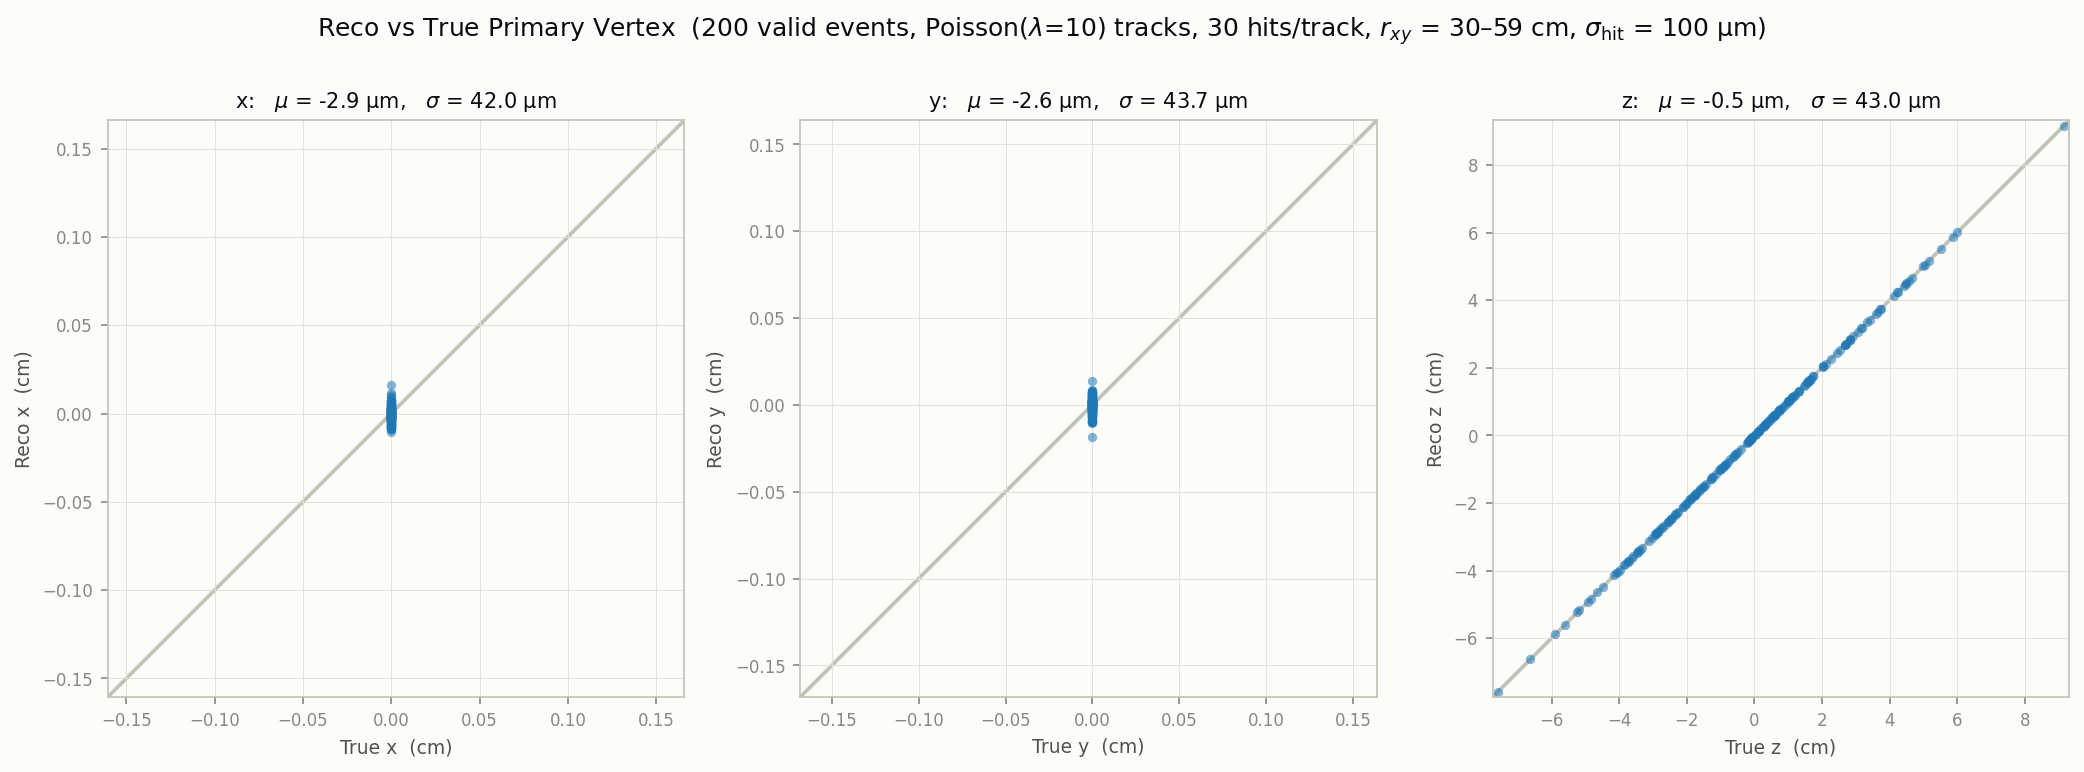
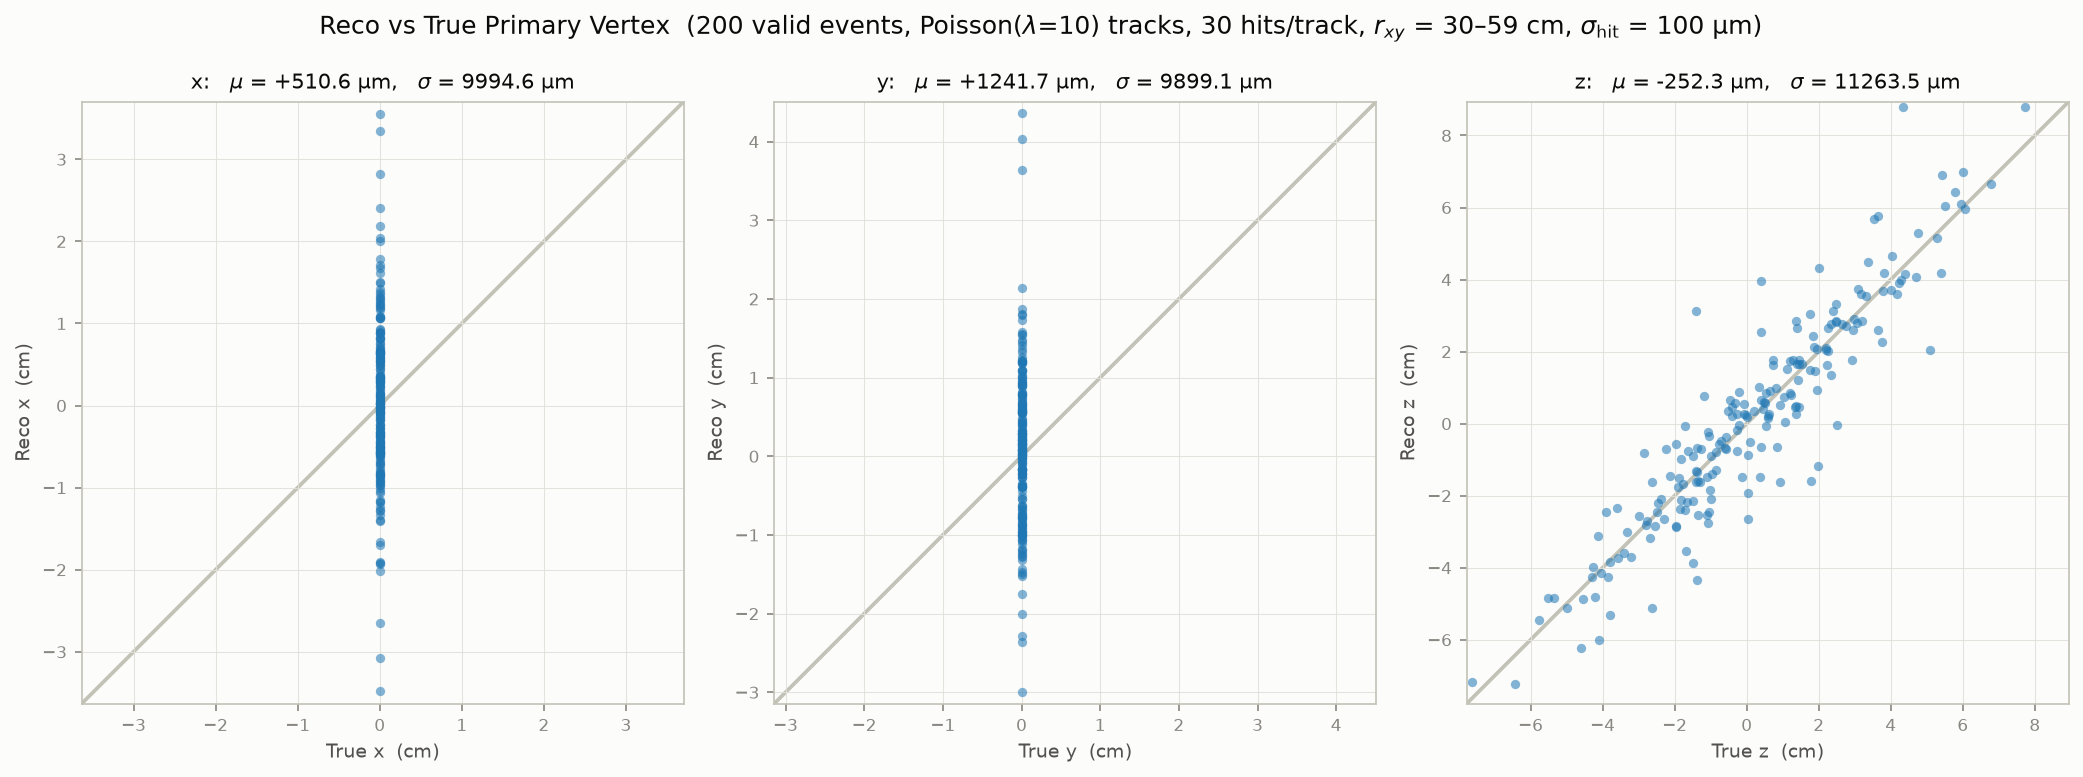
Adding helix fit logic, helix fit can now be used

diff --git a/train/downstream/vertex_head.py b/train/downstream/vertex_head.py
@@ -64,6 +64,7 @@ it as a first version, not a substitute for that helical refinement.
 import torch
 import torch.nn as nn
 
+SCALING_FACTOR = 100.0  # placeholder for dataset.py's data_scaler, which is not yet implemented
 
 def track_flight_direction(track_reg_result, epsilon=1e-8):
     """
@@ -201,8 +202,7 @@ def fit_vertex_by_closest_approach(
 def fit_vertex_by_helix_closest_approach(
     fitpars,
     track_weight,
-    n_iterations=5,
-    convergence_tol=1e-4,
+    n_iterations=100,
     is_cosmics=False,
     seed_vertex=None,
     **linear_fit_kwargs,
@@ -234,9 +234,6 @@ def fit_vertex_by_helix_closest_approach(
         track_weight: (n_events, n_tracks) -- same meaning as in
             fit_vertex_by_closest_approach
         n_iterations: max outer iterations
-        convergence_tol: stop early once every event's vertex moves less
-            than this between iterations (events with an invalid fit are
-            excluded from this check, not left stalling the loop)
         is_cosmics: passed through to get_helix_tangent, see helix_transport.py
         seed_vertex: (n_events, 3) starting point for iteration 0. Defaults
             to the origin. Seeding from fit_vertex_by_closest_approach's own
@@ -287,7 +284,7 @@ def fit_vertex_by_helix_closest_approach(
         # remainder of a batched (vectorized-over-events) iteration.
         PV = torch.where(fit_is_valid.unsqueeze(-1), new_PV, PV)
 
-        still_moving = still_moving & fit_is_valid & (step > convergence_tol)
+        still_moving = still_moving & fit_is_valid & (step > 1e-4)
         if not still_moving.any():
             break
         
@@ -325,7 +322,7 @@ def _wrap_to_pi(angle):
     return torch.atan2(torch.sin(angle), torch.cos(angle))
 
 
-def get_helix_tangent(fitpars, point, is_cosmics=False, d_angle=0.005, epsilon=1e-8):
+def get_helix_tangent(fitpars, point, is_cosmics=False, d_angle=0.005):
     """
     Vectorized port of TrackFitUtils::get_helix_tangent.
 
@@ -356,7 +353,7 @@ def get_helix_tangent(fitpars, point, is_cosmics=False, d_angle=0.005, epsilon=1
 
     point_xy = point[..., 0:2]
 
-    pca_circle = get_circle_point_pca(radius, x0, y0, point_xy, epsilon=epsilon)  # (..., 2)
+    pca_circle = get_circle_point_pca(radius, x0, y0, point_xy)  # (..., 2)
 
     pca_circle_radius = pca_circle.norm(dim=-1)
     if is_cosmics:
@@ -380,7 +377,7 @@ def get_helix_tangent(fitpars, point, is_cosmics=False, d_angle=0.005, epsilon=1
     second_point_pca = torch.cat([new_xy, new_z.unsqueeze(-1)], dim=-1)
 
     raw_tangent = second_point_pca - pca
-    tangent = raw_tangent / raw_tangent.norm(dim=-1, keepdim=True).clamp(min=epsilon)
+    tangent = raw_tangent / raw_tangent.norm(dim=-1, keepdim=True)
 
     # Direction is ambiguous (d_angle could as easily have been negative) --
     # resolved the same way the C++ does, using the direction from the
@@ -392,6 +389,59 @@ def get_helix_tangent(fitpars, point, is_cosmics=False, d_angle=0.005, epsilon=1
     tangent = torch.where(flip.unsqueeze(-1), -tangent, tangent)
 
     return pca, tangent
+
+def track_reg_to_fitpars(track_reg_result, track_position, b_z):
+    """
+    Convert the track-finding head's regression output into TrackFitUtils'
+    fitpars convention, evaluated at the given reference point (normally the
+    innermost assigned hit, i.e. exactly track_position from
+    VertexHead.track_position_from_hits).
+ 
+    Args:
+        track_reg_result: (..., 4) tensor -- (q/(pT+1), theta, sin(phi), cos(phi))
+        track_position: (..., 3) tensor -- reference point (x_h, y_h, z_h)
+            the regression was evaluated at, same leading shape
+        b_z: solenoid field, Tesla. Scalar (python float) or (...)-
+            broadcastable tensor. Sign matters: it enters the
+            curvature-sign convention along with charge, per the derivation
+            this implements.
+        data_scaler: converts the 0.2998*B*R relation (R in meters) into
+            whatever length unit track_position is stored in (e.g. 100 for
+            cm).
+        epsilon: numerical floor for divisions (sin(theta), cos(alpha), B_z)
+ 
+    Returns:
+        fitpars: (..., 5) tensor -- (radius, x0, y0, zslope, z0)
+    """
+    rho = track_reg_result[..., 0]
+    theta = track_reg_result[..., 1]
+    sin_phi = track_reg_result[..., 2]
+    cos_phi = track_reg_result[..., 3]
+ 
+    x_h = track_position[..., 0]
+    y_h = track_position[..., 1]
+    z_h = track_position[..., 2]
+ 
+    q = torch.sign(rho)
+    q = torch.where(q == 0, torch.ones_like(q), q)  # rho == 0 is a degenerate/invalid slot either way
+    p_T = (1.0 / rho.abs()) - 1.0
+
+    tan_lambda = torch.cos(theta) / torch.sin(theta)
+    b_z_t = torch.full_like(rho, float(b_z))
+    R_s = (p_T / (0.2998 * q * b_z_t)) * SCALING_FACTOR
+    radius = R_s.abs()
+ 
+    x0 = x_h + R_s * sin_phi
+    y0 = y_h - R_s * cos_phi
+ 
+    r_h = torch.sqrt(x_h * x_h + y_h * y_h)
+
+    cos_alpha = (x_h * cos_phi + y_h * sin_phi) / r_h
+    
+    zslope = tan_lambda / cos_alpha #TODO: update to use TrackFitUtils::line_fit / line_fit_xz
+    z0 = z_h - zslope * r_h
+ 
+    return torch.stack([radius, x0, y0, zslope, z0], dim=-1)
 
 class VertexHead(nn.Module):
     """
@@ -409,15 +459,15 @@ class VertexHead(nn.Module):
         self,
         learn_weights: bool = False,
         weight_hidden_dim: int = 32,
-        use_helix: bool = False,
+        use_helix: bool = True,
         helix_iterations: int = 5,
-        helix_convergence_tol: float = 1e-4,
+        b_z: float = 3.8,
     ):
         super().__init__()
         self.learn_weights = learn_weights
         self.use_helix = use_helix
         self.helix_iterations = helix_iterations
-        self.helix_convergence_tol = helix_convergence_tol
+        self.b_z = b_z       
         if learn_weights:
             # Input features: class_probs (2) + track_reg_result (4) = 6.
             # Deliberately no PID and no track_position here -- this network
@@ -479,7 +529,7 @@ class VertexHead(nn.Module):
         track_position = torch.where(has_any_assigned_hit.unsqueeze(-1), innermost_hit_position, torch.zeros_like(innermost_hit_position))
         return track_position, total_hit_weight
 
-    def forward(self, class_probs, track_reg_result, mask_probs, points, padding_mask, fitpars=None):
+    def forward(self, class_probs, track_reg_result, mask_probs, points, padding_mask):
         """
         Args:
             class_probs: (n_events, n_tracks, 2) from MambaAttentionHead
@@ -491,19 +541,6 @@ class VertexHead(nn.Module):
             mask_probs: (n_events, n_hits, n_tracks) from MambaAttentionHead
             points: (n_events, n_hits, 4) raw hits (same tensor fed to the backbone)
             padding_mask: (n_events, n_hits) True where a hit is real
-            fitpars: (n_events, n_tracks, 5) or None. Required when
-                use_helix=True: (radius, x0, y0, zslope, z0) per track in
-                TrackFitUtils.cc's convention (see helix_transport.py).
-                THIS IS NOT YET PRODUCED ANYWHERE UPSTREAM -- the
-                MambaAttentionHead regression output is (q/(pT+1), theta,
-                sin(phi), cos(phi)), a different parameterization, and
-                converting it into (radius, x0, y0, zslope, z0) needs the
-                magnetic field strength and the same data_scaler that the
-                original docstring above already flags as a placeholder
-                (currently 1, in dataset.py). Until that conversion and a
-                real data_scaler exist, fitpars must come from wherever
-                TrackFitUtils::fitClusters (or equivalent) already runs, or
-                use_helix must stay False. Ignored when use_helix is False.
 
         Returns:
             {
@@ -539,6 +576,8 @@ class VertexHead(nn.Module):
             # and how confident the track finder is that it's real
             track_weight = probability_track_is_real * total_hit_weight
 
+        fitpars = track_reg_to_fitpars(track_reg_result, track_position, self.b_z)
+
         if self.use_helix:
             if fitpars is None:
                 raise ValueError(
@@ -549,7 +588,6 @@ class VertexHead(nn.Module):
                 fitpars,  #Add fitpar translation
                 track_weight,
                 n_iterations=self.helix_iterations,
-                convergence_tol=self.helix_convergence_tol,
                 seed_vertex = fit_vertex_by_closest_approach(track_position, track_direction, track_weight)["vertex_estimate"]
             )
         else:

diff --git a/train/downstream/plot_vertex.py b/train/downstream/plot_vertex.py
@@ -653,7 +653,7 @@ VTX_Z_MAX = 30.0
 
 
 def main():
-    vertex_head = VertexHead(learn_weights=False)
+    vertex_head = VertexHead(learn_weights=False,  b_z=1.4)
     vertex_head.eval()
 
     # ══════════════════════════════════════════════════════════════════════════

diff --git a/train/downstream/test_vertex_simple.py b/train/downstream/test_vertex_simple.py
@@ -115,7 +115,7 @@ def helix_position_at_radius(vertex, p_T, theta, phi, charge, B_z, R_target):
     # Transverse helix in x-y.
     x = vx + rho * (math.sin(phi + alpha) - math.sin(phi))
     y = vy - rho * (math.cos(phi + alpha) - math.cos(phi))
-
+    
     # Arc length along the trajectory.
     s = rho * abs(alpha)
 
